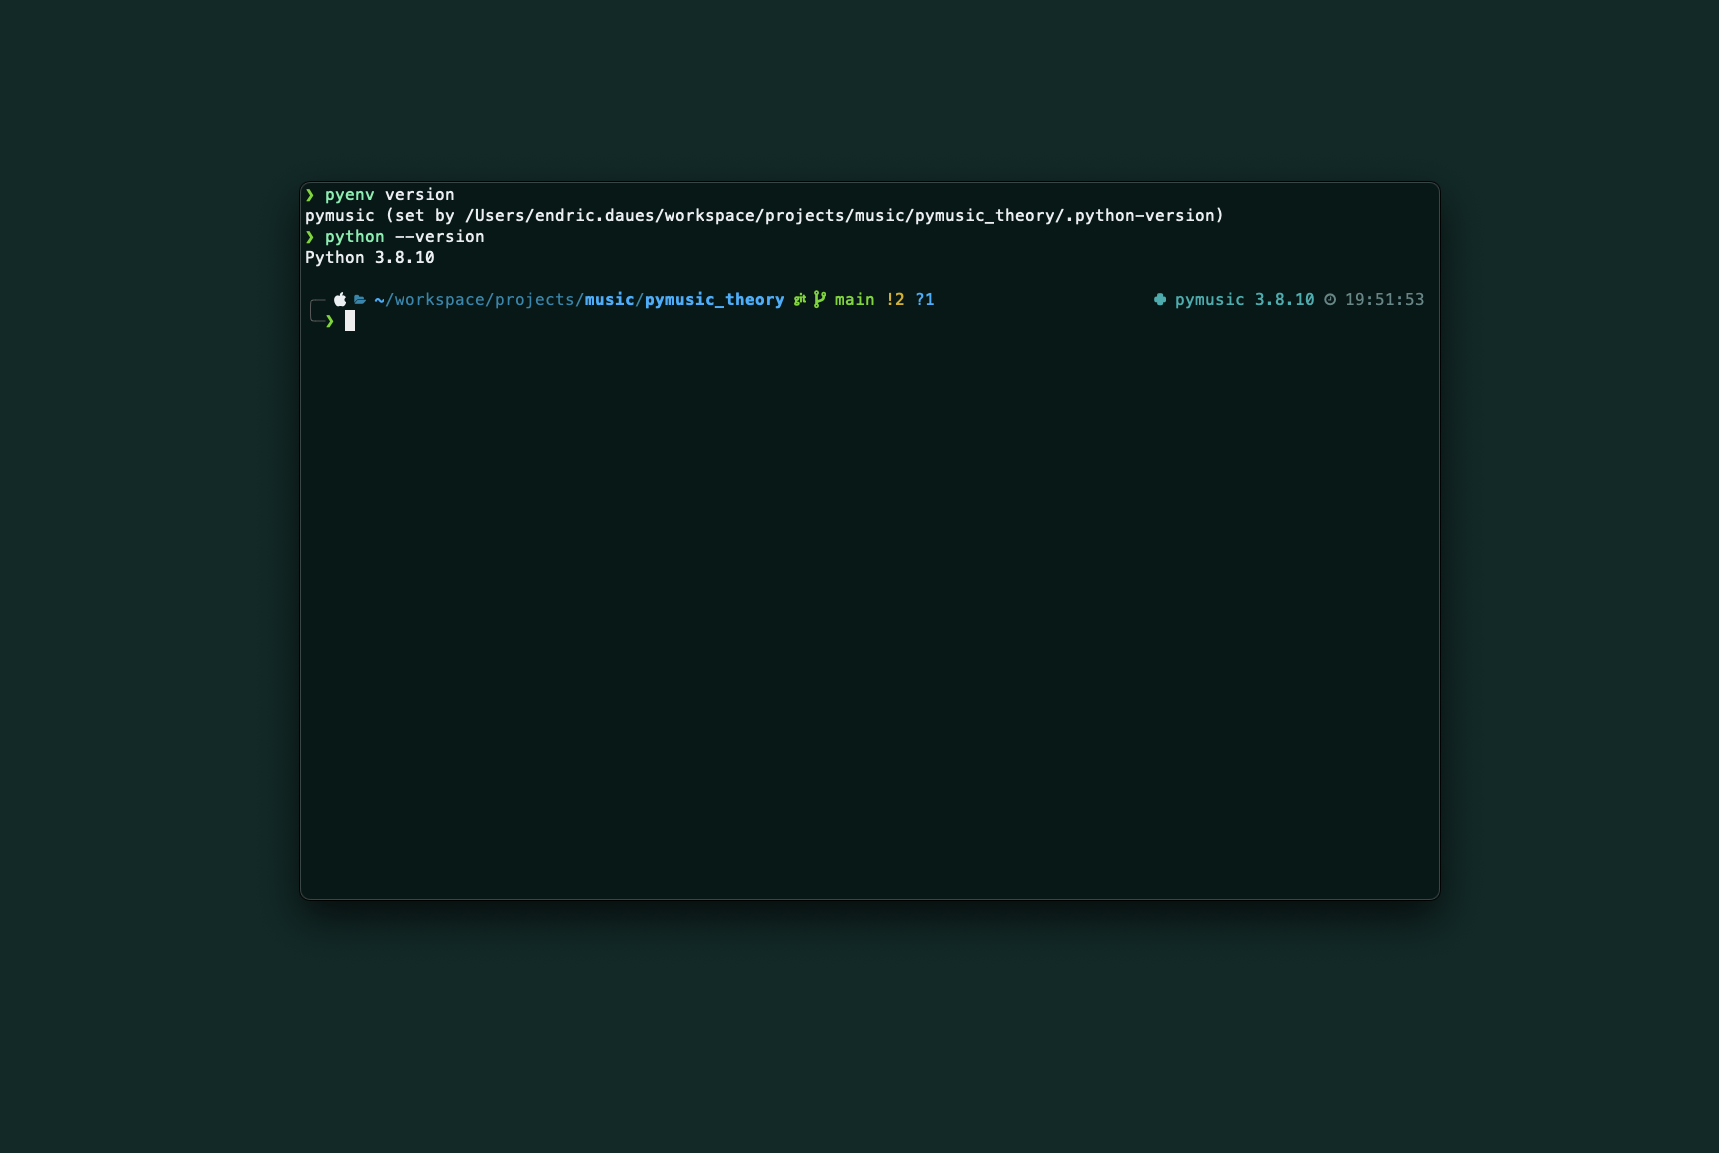
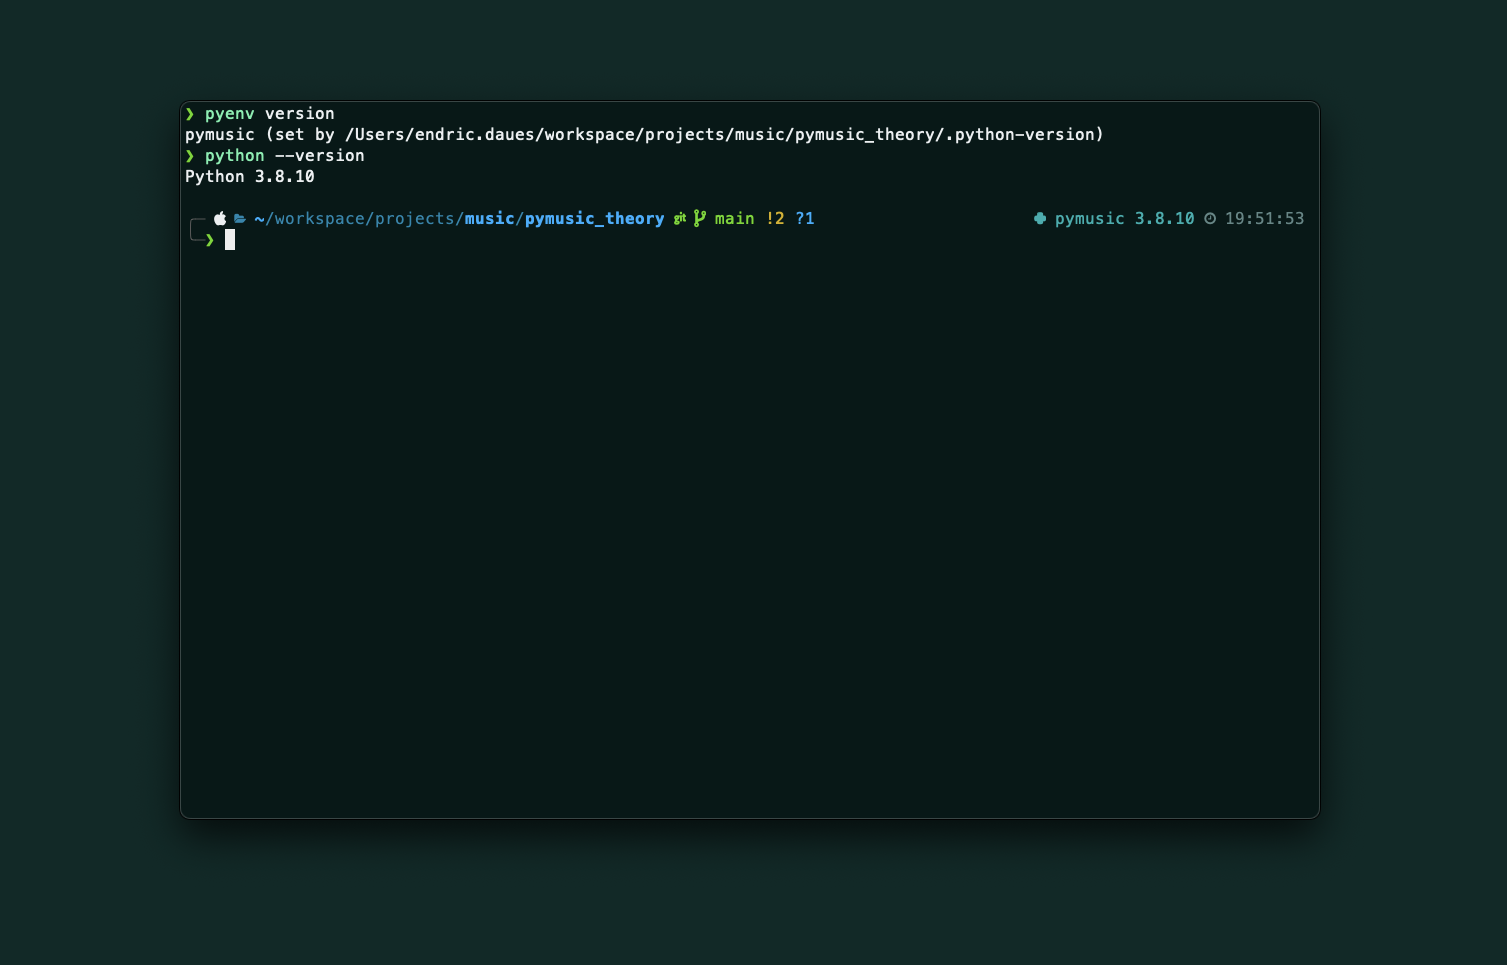
update screenshot

Changed region(s): [[0.1248, 0.0933, 0.7173, 0.2798], [0.6861, 0.2176, 0.8733, 0.2798]]

diff --git a/README.md b/README.md
@@ -23,7 +23,7 @@ I recommend interacting with the code through a Python notebook. Check out `runn
 I utilize [PyEnv](https://github.com/pyenv/pyenv) with [virtualenv](https://github.com/pyenv/pyenv-virtualenv) to manage my Python distributions.
 
 <div style="text-align: center;">
-    <img src="./images/docs/env.png" alt="Cover" width="800" height="520">
+    <img src="./images/docs/env.png" alt="Cover" width="600" height="384">
     <p align="center"></p>
 </div>
 
